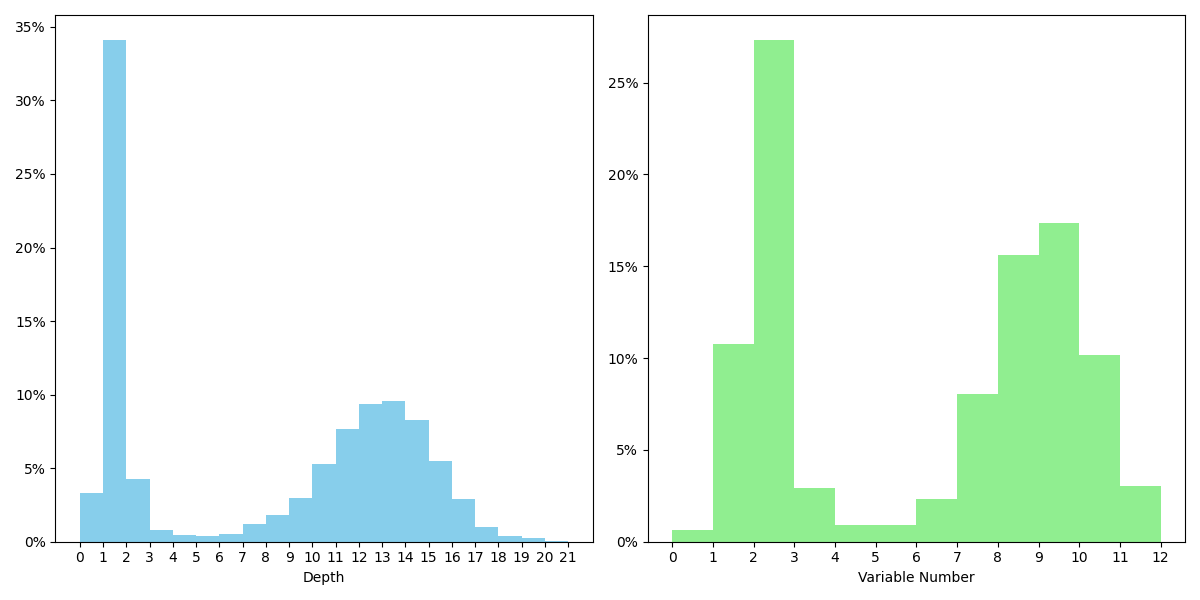
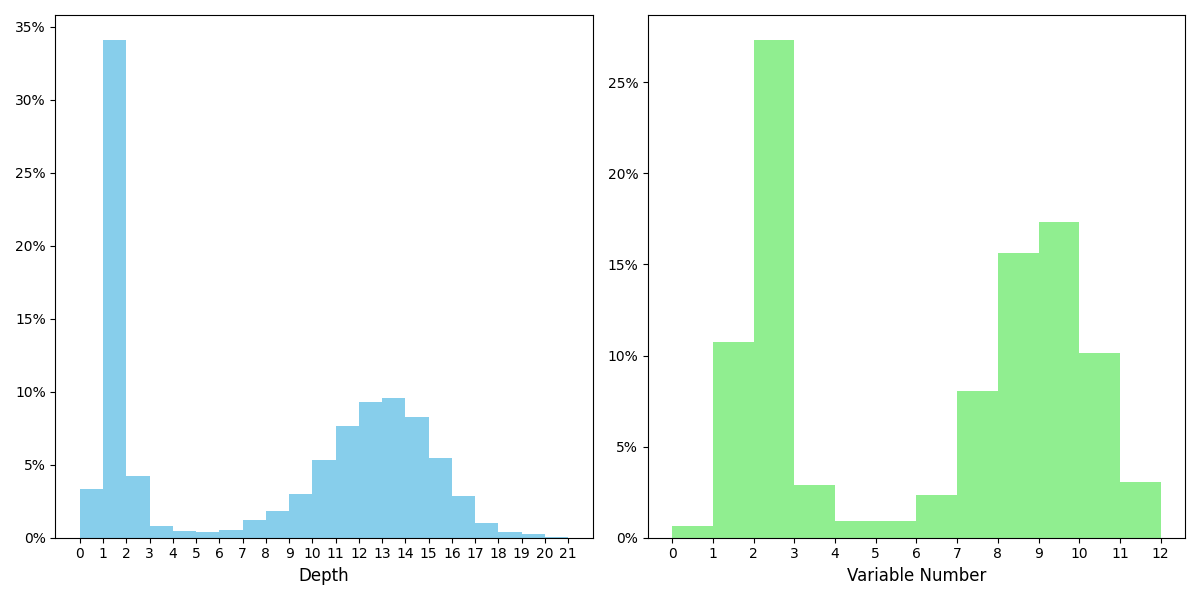
readme

diff --git a/analysis.py b/analysis.py
@@ -50,7 +50,7 @@ plt.figure(figsize=(12, 6))
 plt.subplot(1, 2, 1)
 plt.hist(depths, bins=range(min(depths), max(depths) + 1), color='skyblue', weights=np.ones(len(depths)) / len(depths))
 #plt.title('Percentage Histogram of Depths')
-plt.xlabel('Depth')
+plt.xlabel('Depth', fontsize=12)
 #plt.ylabel('Percentage')
 plt.xticks(range(min(depths), max(depths) + 1))  # Ensuring integer x-axis for depth
 plt.gca().yaxis.set_major_formatter(plt.FuncFormatter(lambda y, _: f'{int(y*100)}%'))  # Convert y-axis to percentage
@@ -59,7 +59,7 @@ plt.gca().yaxis.set_major_formatter(plt.FuncFormatter(lambda y, _: f'{int(y*100)
 plt.subplot(1, 2, 2)
 plt.hist(var_nums, bins=range(min(var_nums), max(var_nums) + 1), color='lightgreen', weights=np.ones(len(var_nums)) / len(var_nums))
 #plt.title('Percentage Histogram of Variable Numbers')
-plt.xlabel('Variable Number')
+plt.xlabel('Variable Number', fontsize=12)
 #plt.ylabel('Percentage')
 plt.xticks(range(min(var_nums), max(var_nums) + 1))  # Ensuring integer x-axis for variable numbers
 plt.gca().yaxis.set_major_formatter(plt.FuncFormatter(lambda y, _: f'{int(y*100)}%'))  # Convert y-axis to percentage
@@ -70,9 +70,10 @@ plt.show()
 
 # Creating a joint plot for both Depth and Variable Number
 sns.jointplot(x=depths, y=var_nums, kind="hex", color="purple")
-plt.xlabel('Depth')
-plt.ylabel('Variable Number')
+plt.xlabel('Depth', fontsize=12)
+plt.ylabel('Variable Number', fontsize=12)
 #plt.suptitle('Joint Distribution of Depth and Variable Number', y=1.02)
+plt.subplots_adjust(bottom=0.08, left=0.09)
 plt.savefig('joint_dist.png')
 plt.show()
 
@@ -97,10 +98,10 @@ color = (0.122, 0.47, 0.706)
 fig, axs = plt.subplots(1, 2, figsize=(18, 6))
 
 axs[0].hist(num_operators, bins=range(min(num_operators), max(num_operators) + 1, 1), color=color, alpha=0.7)
-axs[0].set_xlabel('Number of Operators')
+axs[0].set_xlabel('Number of Operators', fontsize=12)
 
 axs[1].hist(num_binary_operators, bins=range(min(num_binary_operators), max(num_binary_operators) + 1, 1), color=color, alpha=0.7)
-axs[1].set_xlabel('Number of Binary Operators')
+axs[1].set_xlabel('Number of Binary Operators', fontsize=12)
 
 for ax in axs:
     ax.set_ylabel('')

diff --git a/README.md b/README.md
@@ -3,15 +3,22 @@ Assessor, as an _adaptive colloquium_, generates challenging training samples fo
 
 The setup runs like a [GAN](https://arxiv.org/abs/1406.2661). Assessor, a transformer based on [nanoGPT](https://github.com/karpathy/nanogpt), generates Boolean formulas. The formulas are used to train a system, and are labeled easy if the trained system does it, otherwise hard. The Assessor is in turn trained using the labeled formulas to generate more challenging samples.
 
-The project is young and moving quickly. Currently, the trained system is simulated by a script that labels a formula as easy/hard, if after simplification, its depth is less/more than a given threshhold. As assessor learns to generate formulas with more depth, the threshhold is increased. 
-
-## Results
+The project is young and moving quickly. Currently, the trained system is simulated by a script that labels a formula as easy/hard, if after simplification, its depth is less/more than a given threshhold. As assessor learns to generate formulas with more depth, the threshhold is increased.
+## results
 After just 330K iterations, Assessor generates formulas that, after simplification, 
-52.7% of them have both depth >= 6 and >= 6 variables (for training log see [cwd/train_log.txt](cwd/train_log.txt))
+52.7% of them have both depth >= 6 and >= 6 variables:
+<p align='center'>
+<img src="assets/histogram.png" height="250" style="margin-right:20;" alt="percentage of formulas with depth and number of variables">  
+<img src="assets/joint_dist.png"  height="250" alt="joint distribution with respect to depth and number of variables">
+</p>
 
-<p align="center">
-  <img src="assets/histogram.png" height="250"  alt="percentage of formulas with depth and number of variables">
-  <img src="assets/joint_dist.png"  height="250"  alt="joint distribution with respect to depth and number of variables">
+Assessor has superior Gaussian distribution of number of operators _after simplification_, compared to decaying distribution of the krafted method currently employed by Boolformer, despite Assessor having severe restrictions: Assessor has upto just 200 tokens, and 12 variables, while Boolfomer has upto 1000 binary operators.
+<p><i>
+Assessor</i></br>
+<img src="assets/op_num.png" height="250"  alt="percentage of formulas with depth and number of variables">
+<i>Boolformer <a src='https://arxiv.org/abs/2309.12207'>Paper</a> - Fig. 8 </i>
+
+<img src="assets/fig-8-boolformer.png"  height="250"  width="500"  alt="joint distribution with respect to depth and number of variables">
 </p>
 
 ## run the model
@@ -49,7 +56,7 @@ You'll see each generated formula in Polish normal form, followed by its simplif
 ['or', 'and', 'and', 'or', 'and', 'or', 'and', 'or', 'and', 'or', 'and', 'or', 'and', 'x12', 'x4', 'x6', 'x12', 'x3', 'x4', 'x11', 'x5', 'x11', 'x7', 'x10', 'x4', 'x7', 'x10']
 depth:12 var_num:8 simpified: x10|(x4&x7&(x10|(x7&(x11|(x5&(x11|(x4&(x3|(x12&(x6|(x12&x4)))))))))))
 ```
-##show results:
+##analysis
 ```bash
 analysis.py cwd/output.txt
 ```
